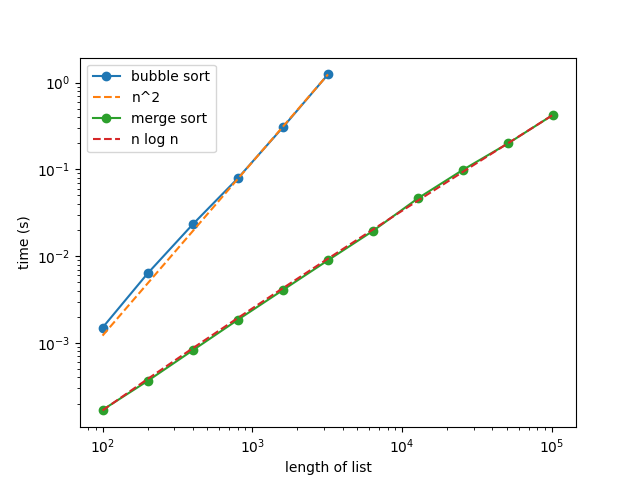
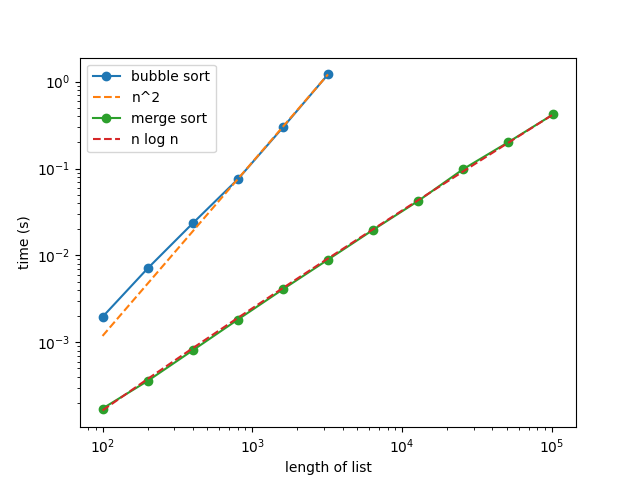
More features added

diff --git a/Precision/Decimal_V2.py b/Precision/Decimal_V2.py
@@ -40,7 +40,7 @@ def join(value, scale):
 
 
 def cut(value, scale, digits):
-    # keep only the first `digits` digits of value, rounding the rest (half up)
+    # keep only the first digits of value, rounding the rest (half up)
     extra = len(str(abs(value))) - digits
     if extra <= 0:
         return value, scale
@@ -49,9 +49,10 @@ def cut(value, scale, digits):
     value = (value + 5 * 10 ** (extra - 1)) // 10 ** extra
     return sign * value, scale - extra
 
-
+# Now the class using the functions written above
 class Precision:
-    digits = 50   # how many digits to keep after * and /
+    # how many digits to keep after * and /
+    digits = 50   
 
     def __init__(self, x, scale=0):
         if type(x) == int:
@@ -91,7 +92,7 @@ class Precision:
     def __truediv__(self, other):
         other = make_precision(other)
         if other.value == 0:
-            raise ZeroDivisionError("It is divided by zero")
+            print("It is divided by zero")
         # make the top big enough that the answer has more digits than we keep
         shift = Precision.digits + len(str(abs(other.value))) + 1
         q = abs(self.value) * 10 ** shift // abs(other.value)
@@ -148,15 +149,22 @@ def make_precision(x):
         return x
     return Precision(x)
 
-a = Precision("0.1")
-b = Precision("0.2")
-print("0.1 + 0.2 with Precision:", a + b)
-print("0.1 + 0.2 with float:    ", 0.1 + 0.2)
-print("0.1 * 0.2 =", a * b)
-print("0.2 - 0.1 =", b - a)
-print("1 / 3 =", Precision(1) / 3)
-print(Precision("1e-20"), Precision("-2.5e3"), Precision(123, -2), Precision(2.5))
+first = input("You wanna give an input or the program does it? (Y,N) ")
 
+if first.upper() == "Y":
+    a = str(input("First: "))
+    a = Precision(a)
+    b = str(input("Second: "))
+    b = Precision(b)
+elif first.upper() == "N":
+    a = Precision("0.1")
+    b = Precision("0.2")
+    print("0.1 + 0.2 with Precision:", a + b)
+    print("0.1 + 0.2 with float:    ", 0.1 + 0.2)
+    print("0.1 * 0.2 =", a * b)
+    print("0.2 - 0.1 =", b - a)
+    print("1 / 3 =", Precision(1) / 3)
+    print(Precision("1e-20"), Precision("-2.5e3"), Precision(123, -2), Precision(2.5))
 
 # check Precision against Fraction, which is always exact
 wrong = 0
@@ -269,7 +277,6 @@ def make_list(n):
         lst.append(Precision(random.random()))
     return lst
 
-
 sizes1 = [100, 200, 400, 800, 1600, 3200]
 times1 = []
 for n in sizes1:
@@ -330,12 +337,13 @@ def line_up2(self, other):
         x = self.value * 10 ** (other.scale - self.scale)
         return x, other.value, other.scale
 
-
+# This function creates list based on the small random numbers using the Precision class written so it wont have wrong round numbers that float does
 lst = make_list(20000)
 floats = []
 for x in lst:
     floats.append(float(x))
 
+# Finding how long it takes so before runnning is a time.time() and after again and substract them
 t0 = time.perf_counter()
 mergesort(floats)
 t_float = time.perf_counter() - t0
